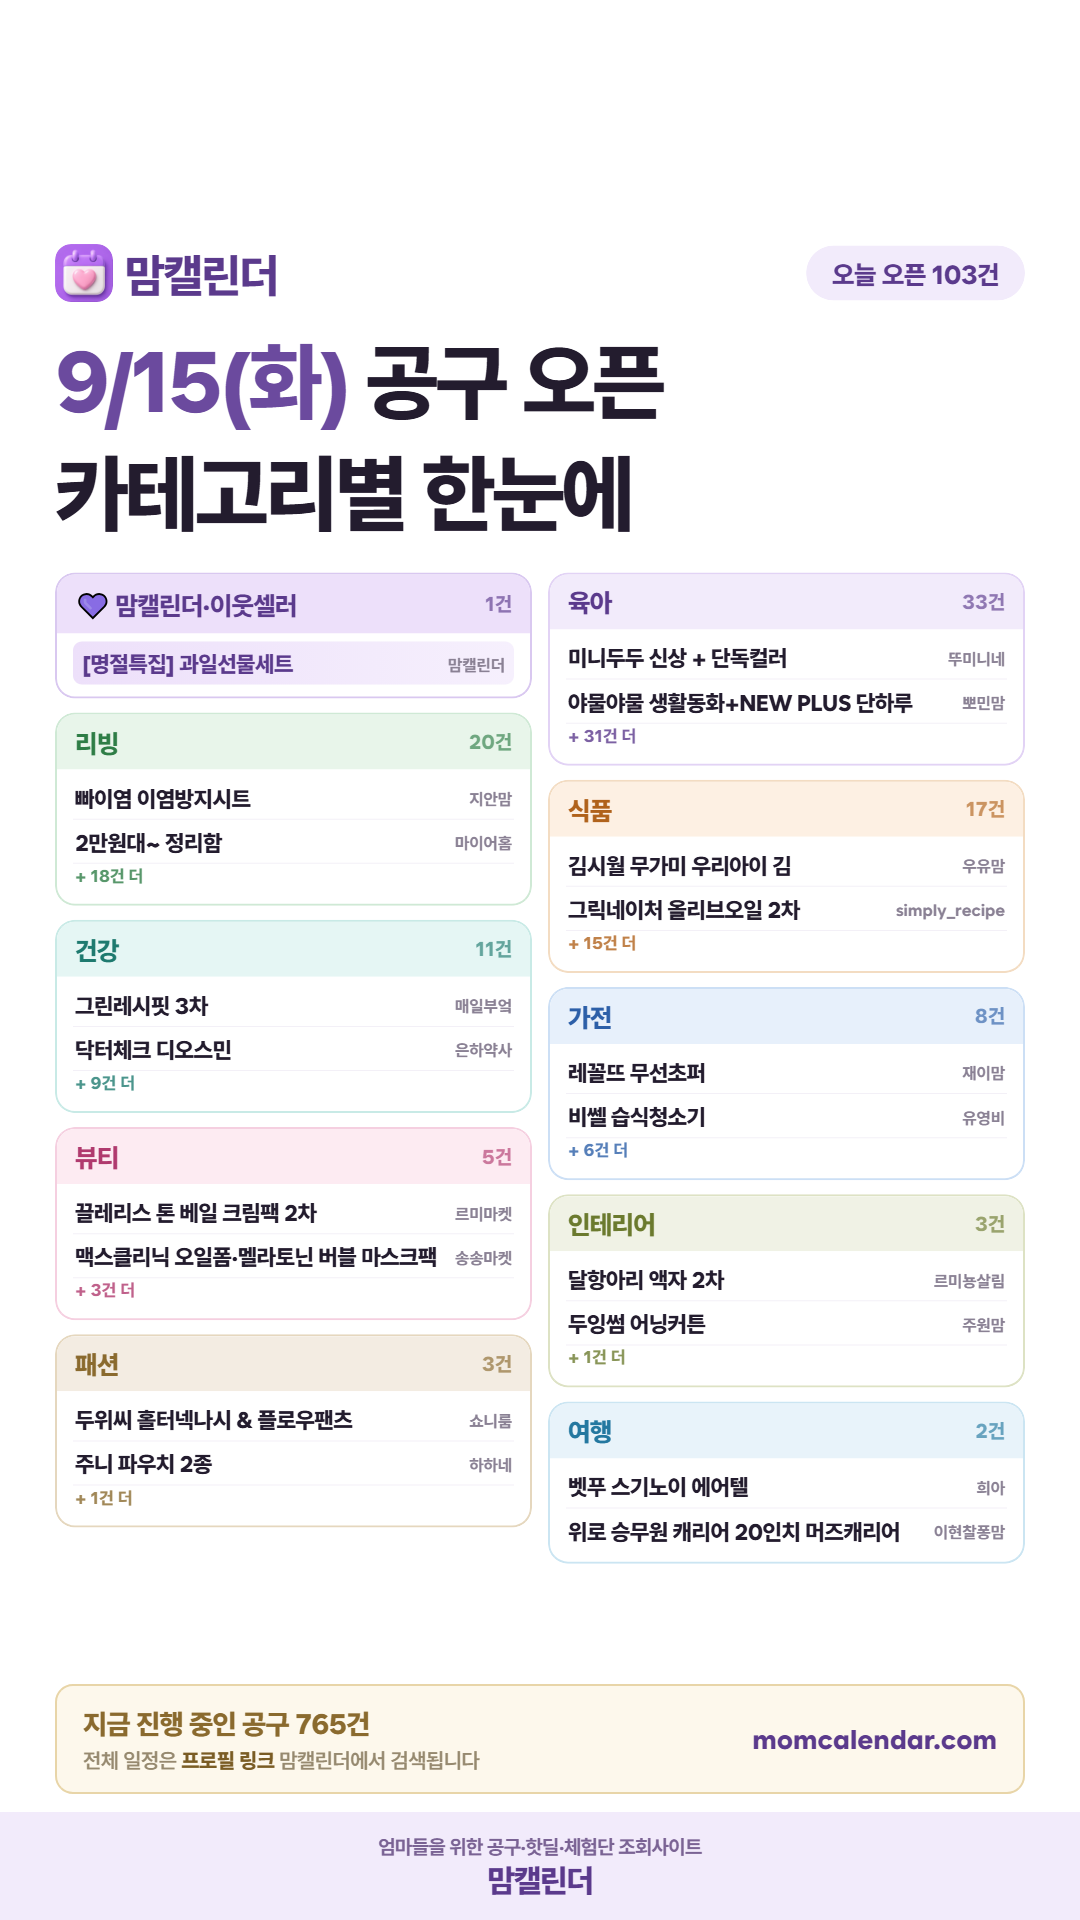
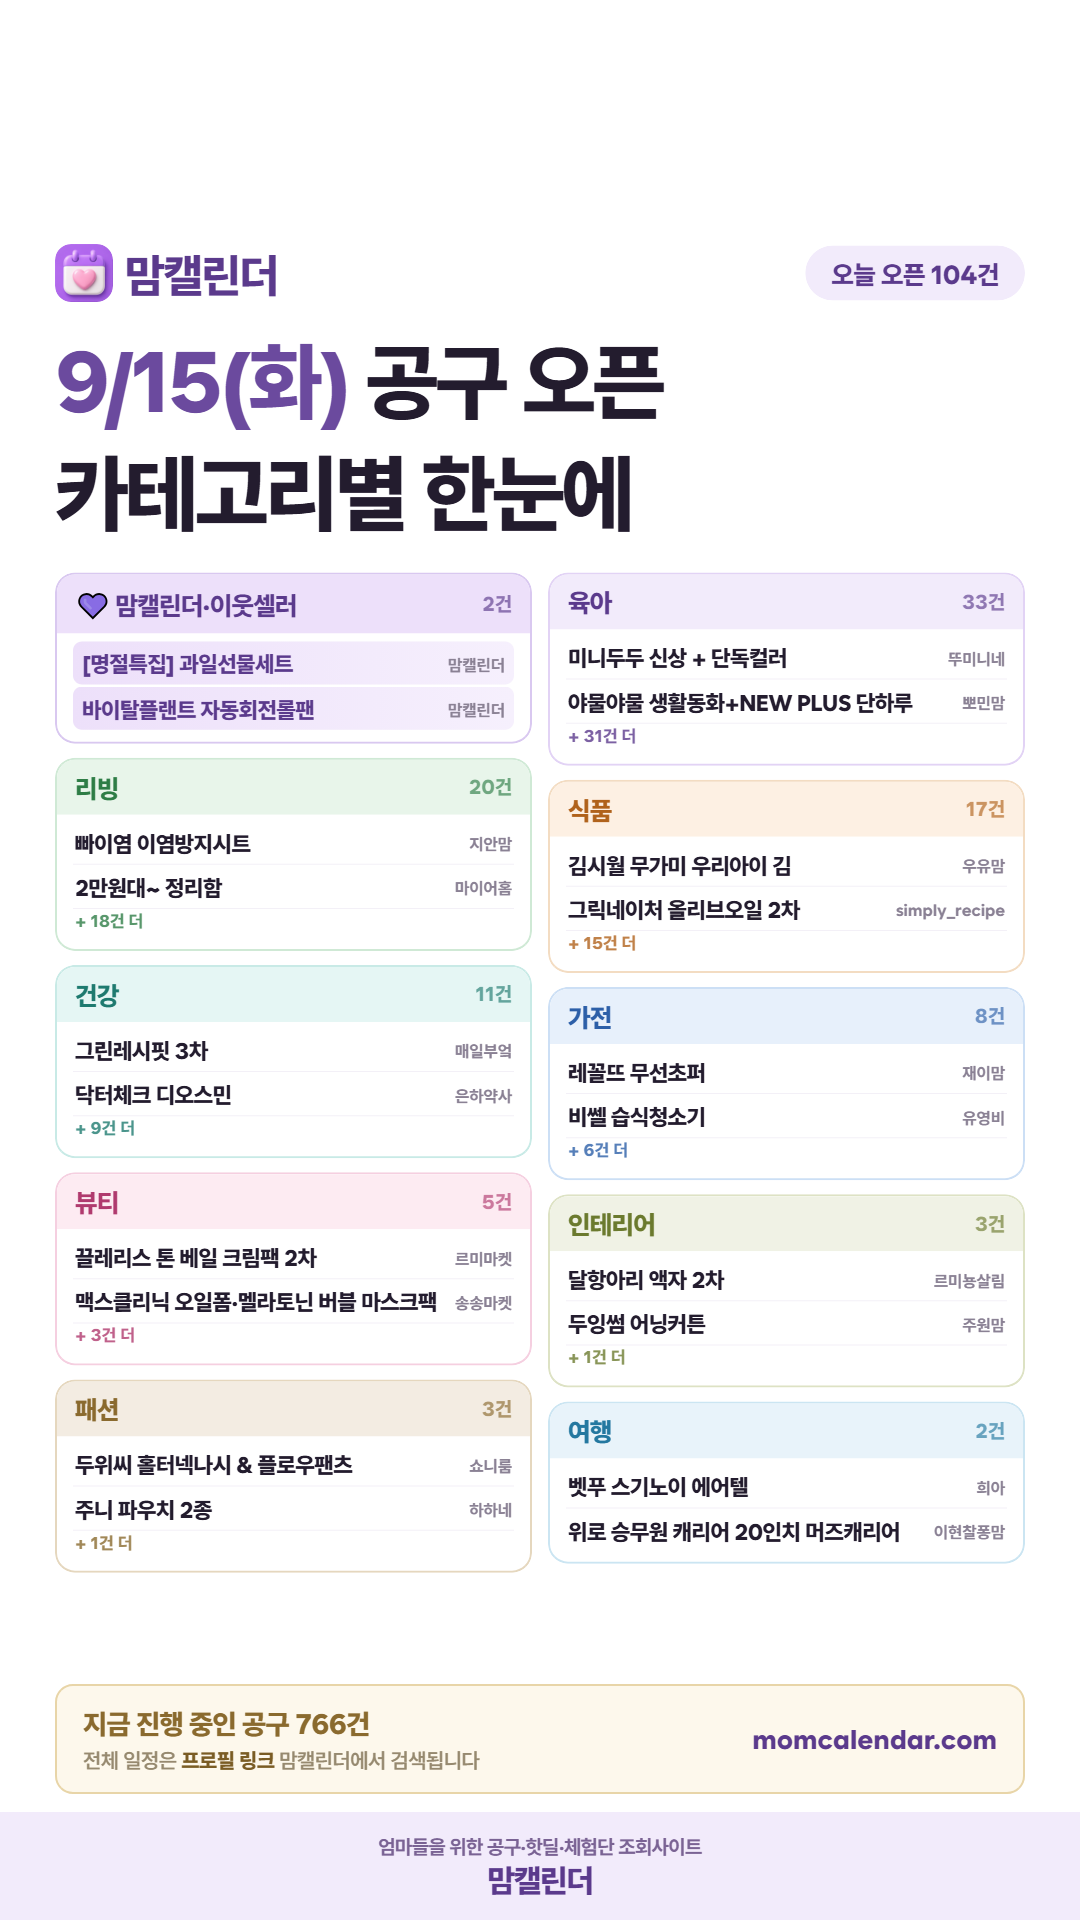
아침 인스타 카드 재생성 (2026-09-15) — 바이탈플랜트 롤팬(맘캘린더) 추가

Changed region(s): [[0.0306, 0.3438, 0.4889, 0.8125], [0.8861, 0.125, 0.9167, 0.1562]]

diff --git a/daily/2026-09-15.html b/daily/2026-09-15.html
@@ -19,7 +19,7 @@ textarea{width:100%;height:260px;border:1px solid #E3DCEF;border-radius:10px;pad
 .todo p{font-size:12.5px;color:#6B6379;line-height:1.75;margin-top:6px}
 .todo a{color:#5B2E8C;font-weight:700}
 </style></head><body>
-<div class="hd"><div class="wrap"><h1>9월 15일(화) 인스타 카드</h1><p>카테고리 일정 · opens 103 · ends 67</p></div></div>
+<div class="hd"><div class="wrap"><h1>9월 15일(화) 인스타 카드</h1><p>카테고리 일정 · opens 104 · ends 67</p></div></div>
 <div class="wrap">
   
   <div class="card"><img src="./2026-09-15.png" alt="오늘 공구 카드"></div>
@@ -27,12 +27,13 @@ textarea{width:100%;height:260px;border:1px solid #E3DCEF;border-radius:10px;pad
   <div class="card">
     <textarea id="cap" readonly>오늘 오픈 공구, 놓치기 아까운 것만 골라 담았어요
 
-9월 15일(화) 공구 오픈 103건 · 마감 67건
+9월 15일(화) 공구 오픈 104건 · 마감 67건
 
 ━━━━━━━━━━━━━━
 
 💜 맘캘린더·이웃셀러
 · [명절특집] 과일선물세트 — 맘캘린더 @momcal_ (~9/20)
+· 바이탈플랜트 자동회전롤팬 — 맘캘린더 @momcal_ (~9/27)
 
 🧸 육아
 · 미니두두 신상 + 단독컬러 — 뚜미니네 (~9/18)
@@ -42,8 +43,7 @@ textarea{width:100%;height:260px;border:1px solid #E3DCEF;border-radius:10px;pad
 · 나와아기 사다리변기 — 솔맘 (~9/18)
 · 대발이 호기심 동화 — 워니럽마켓 (~9/21)
 · 바브레 변기모음전 — 또서안 (~9/18)
-· 세이펜 레인온펜 — 백서공주 (~9/18)
-…외 25건
+…외 26건
 
 🏠 리빙
 · 빠이염 이염방지시트 — 지안맘 (~9/18)
@@ -113,8 +113,7 @@ textarea{width:100%;height:260px;border:1px solid #E3DCEF;border-radius:10px;pad
 · 블루래빗 골라담기 — 뚝딱맘
 · 프레벨롱 요거트 — 미니똘
 · 코즈 가을신상 상하의·고쟁이바지 — 치즈맘
-· 슈퍼파닉스 한글 + 교구따로 — 리리맘
-…외 60건
+…외 61건
 
 
 ━━━━━━━━━━━━━━
@@ -135,7 +134,7 @@ textarea{width:100%;height:260px;border:1px solid #E3DCEF;border-radius:10px;pad
 ⚠ 공구 일정은 판매자 사정에 따라 변경·조기마감될 수 있어요.
 
 #맘캘린더 #공구일정 #육아공구 #9월15일공구 #공구찾기 #육아정보 #책육아 #공구정보 #육아템 #유아용품 #신학기준비 #맘스타그램</textarea>
-    <div class="meta">2184자</div>
+    <div class="meta">2174자</div>
     <button class="btn btn2" onclick="cp('cap','캡션')">캡션 복사</button>
   </div>
   <div class="card">
@@ -167,10 +166,10 @@ https://open.kakao.com/o/gr2kJhCh
 
 ─────────────
 
-9월 15일(화) 공구 일정이에요. 오늘 오픈하는 116건을 한 번에 모았어요.
+9월 15일(화) 공구 일정이에요. 오늘 오픈하는 117건을 한 번에 모았어요.
 마감이 오늘인 공구도 81건 있어요. 담아두셨다면 서두르셔야 해요.
 
-■ 오늘 시작하는 공구 116건
+■ 오늘 시작하는 공구 117건
 
 [육아]
 · 꿈꾸는달팽이 노래하는 가방 — 서점맘 (~9/20 마감)
@@ -225,6 +224,7 @@ https://open.kakao.com/o/gr2kJhCh
 · 미모서울 도마 — 첨미살림 (~9/19 마감)
 · 미스티파이 뽑아쓰는 항균 행주 — 째째홈 (~9/18 마감)
 · 바스 탈취제 — 개엄마 (~9/18 마감)
+· 바이탈플랜트 자동회전롤팬 — 맘캘린더 (~9/27 마감)
 · 바첸 쿠커블웨어 3차 — 윤우가자라는집 (~9/18 마감)
 · 빠이염 이염방지시트 — 지안맘 (~9/18 마감)
 · 실버스타 무연마 316 찜기 — 살림구조대 (~9/21 마감)
